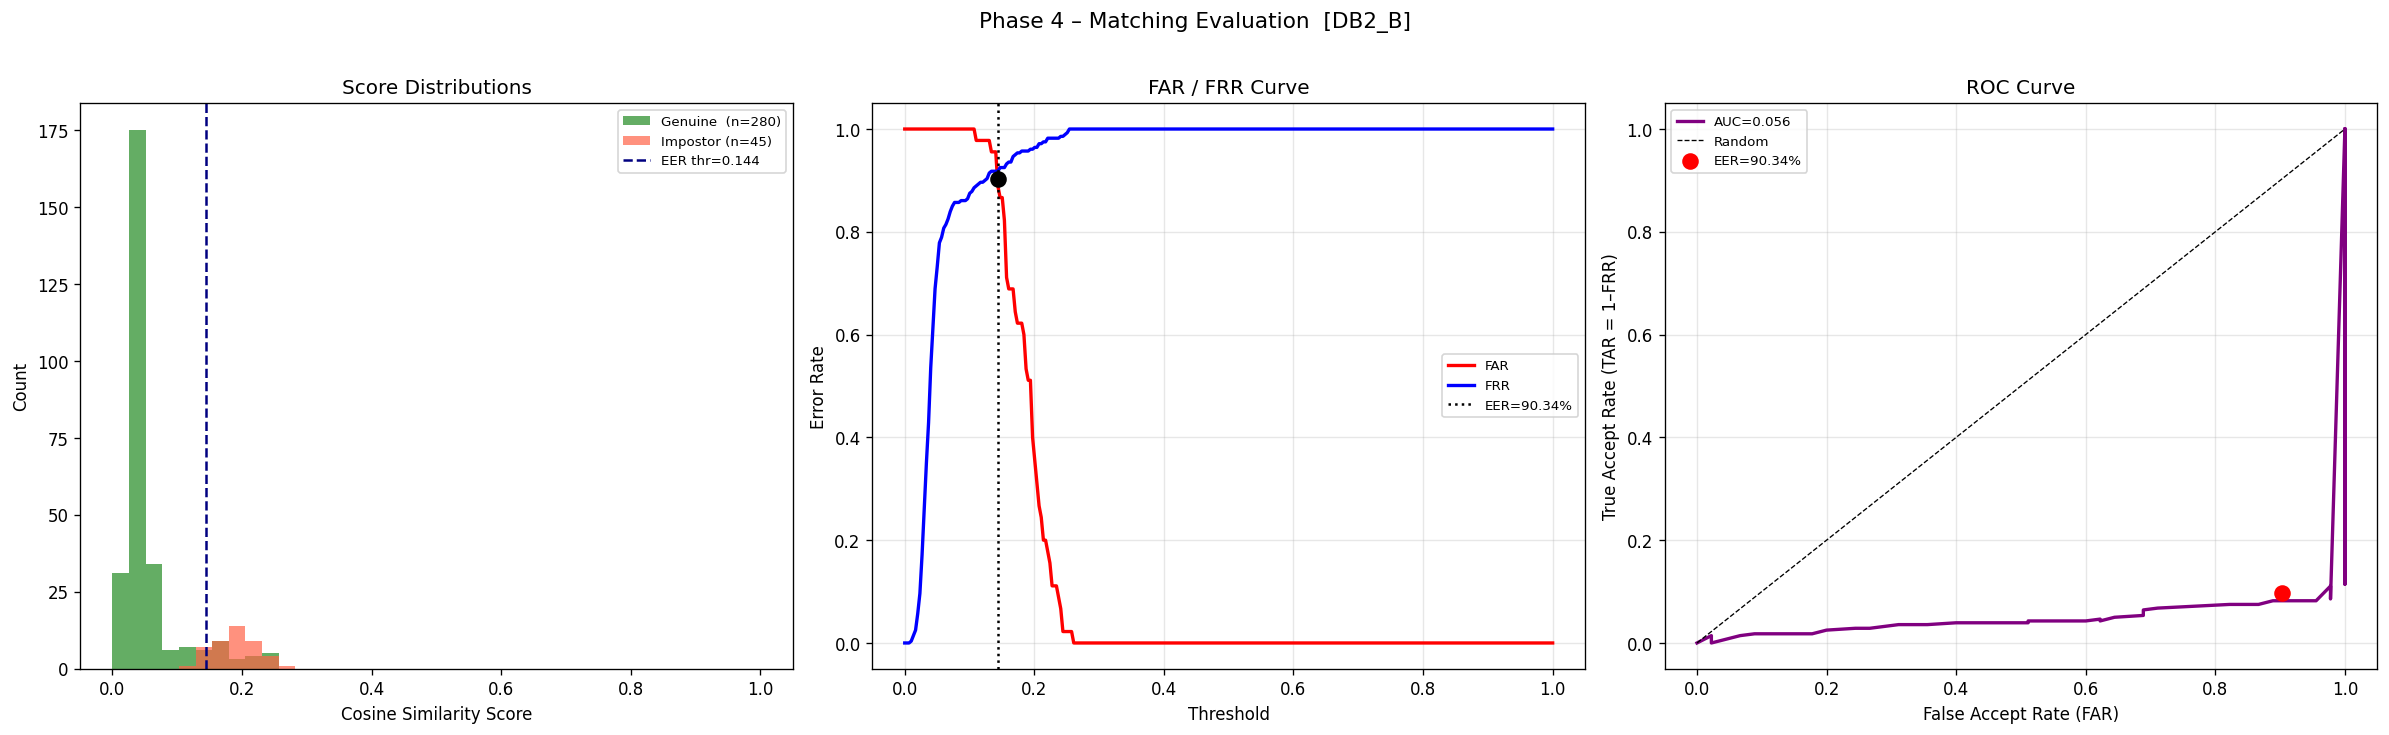
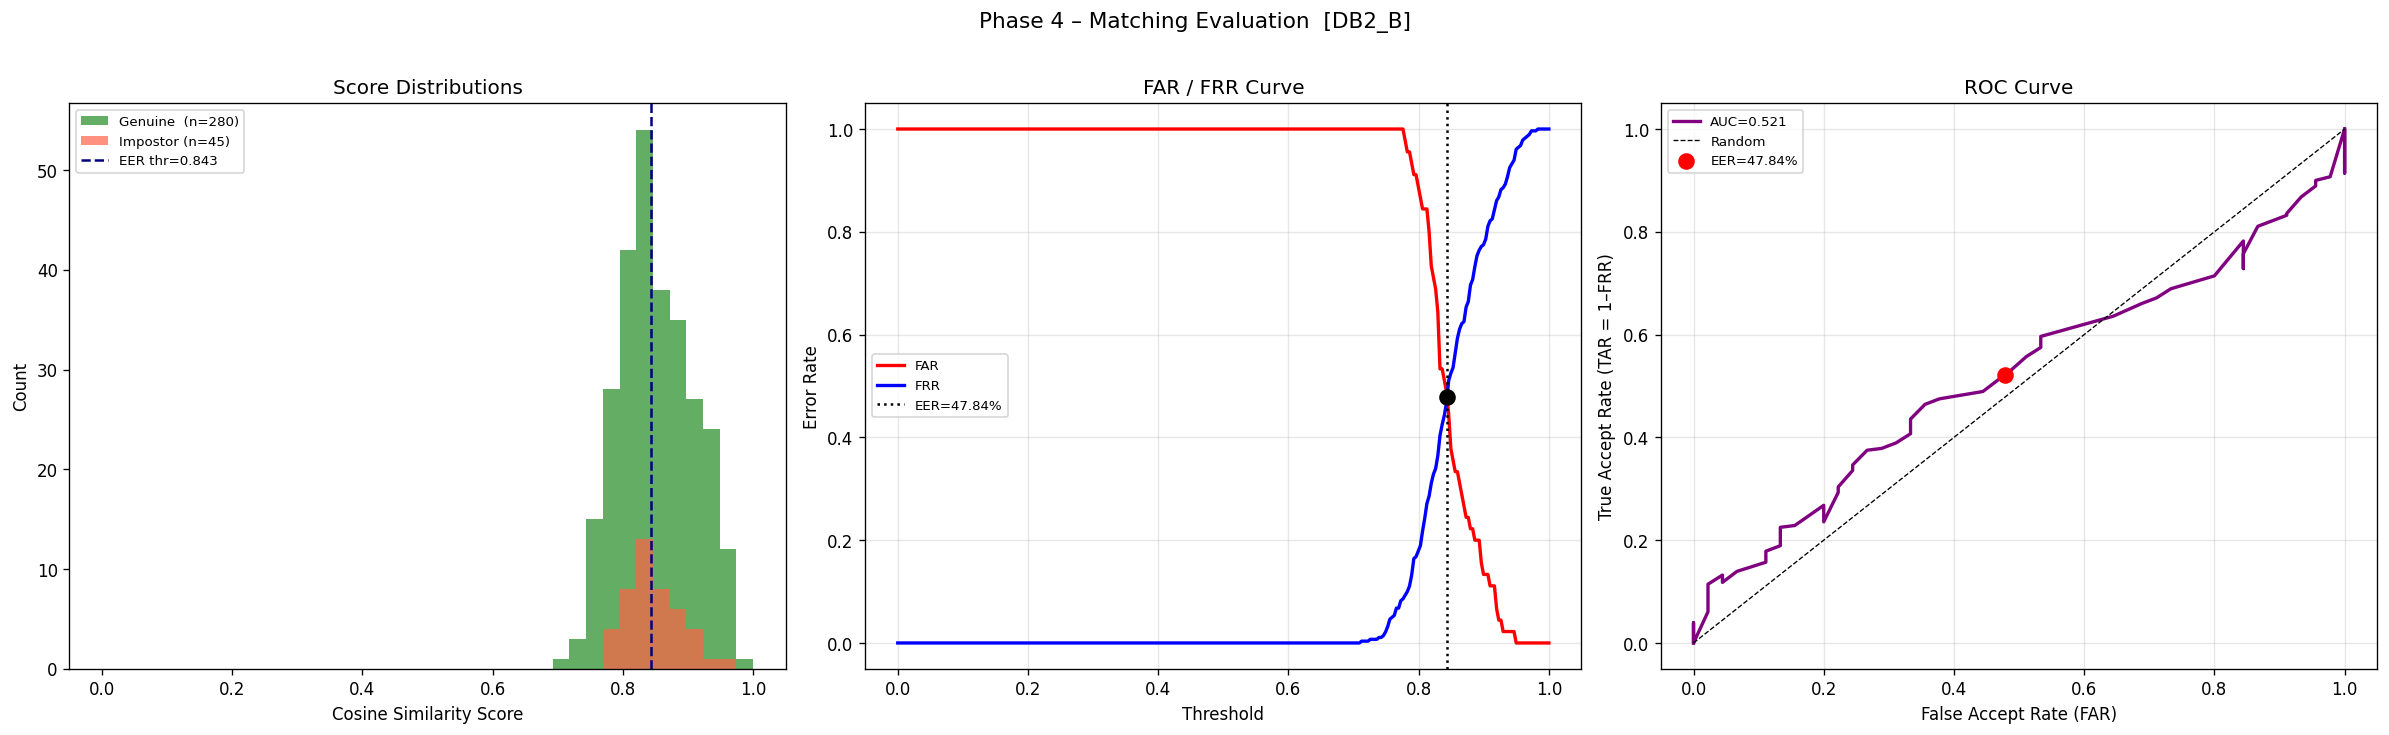
model #9 rank1

diff --git a/pipeline.py b/pipeline.py
@@ -16,6 +16,9 @@ v2 Fixes (applied after real-data diagnosis):
                                      global Laplacian spectrum + ridge-count histogram
                                      + degree distribution + node-descriptor percentiles.
 
+v4 KEY FIX: orientation normalization (rotate to canonical frame) makes
+    all spatial block-features rotation-invariant across impressions.
+
 Pipeline Phases:
     Phase 1.1  →  Preprocessing & Minutiae Extraction
                   (Gabor/CLAHE enhancement → adaptive binarise → Skeletonise → CN method)
@@ -443,6 +446,110 @@ def extract_minutiae(skeleton: np.ndarray) -> tuple:
     return np.array(all_coords, dtype=int), np.array(all_types)
 
 
+def compute_reference_angle(gray: np.ndarray, mask: np.ndarray) -> float:
+    """
+    Estimate the dominant ridge orientation in the fingerprint central region
+    using the gradient structure tensor.
+
+    WHY: The orientation field blocks are fixed to pixel coordinates.
+    If two impressions of the same finger are presented at different angles
+    (even 5-10°), their orientation field vectors will differ strongly, making
+    cosine similarity LOWER for same-subject pairs than for some cross-subject pairs
+    (the inversion observed in v3). This function measures how much rotation is
+    needed to bring the fingerprint to a canonical upright orientation.
+
+    Method (structure tensor):
+        Compute Gx, Gy over the central foreground region.
+        Dominant gradient direction θ = 0.5·arctan2(ΣGxy, ΣGxx-Gyy).
+        Ridge direction = θ + 90°.  Rotation needed = -(ridge angle - 90°).
+
+    Input
+    -----
+    gray : (H,W) uint8   raw grayscale fingerprint.
+    mask : (H,W) bool    foreground mask.
+
+    Output
+    ------
+    angle : float   degrees to rotate the image so the dominant ridges
+                    are approximately vertical (standard orientation).
+                    Constrained to [-45, +45] to avoid over-rotation.
+    """
+    H, W = gray.shape
+    cy, cx = H // 2, W // 2
+    radius = min(H, W) // 3
+
+    r0 = max(0, cy - radius);  r1 = min(H, cy + radius)
+    c0 = max(0, cx - radius);  c1 = min(W, cx + radius)
+
+    region = gray[r0:r1, c0:c1].astype(np.float64)
+    fg     = mask[r0:r1, c0:c1].astype(np.float64)
+
+    if fg.sum() < 100:
+        return 0.0
+
+    smooth = cv2.GaussianBlur(region, (5, 5), 1.5)
+    Gx = cv2.Sobel(smooth, cv2.CV_64F, 1, 0, ksize=3)
+    Gy = cv2.Sobel(smooth, cv2.CV_64F, 0, 1, ksize=3)
+
+    # Structure tensor (averaged over foreground)
+    Vx = float(np.sum((Gx**2 - Gy**2) * fg))
+    Vy = float(np.sum(2.0 * Gx * Gy * fg))
+
+    # Dominant ridge orientation (perpendicular to dominant gradient)
+    theta_grad  = 0.5 * np.arctan2(Vy, Vx)        # radians
+    theta_ridge = theta_grad + np.pi / 2           # ridge ⊥ gradient
+    rot_angle   = np.degrees(theta_ridge) - 90.0   # make ridges vertical
+
+    # Clamp to [-45, 45]
+    while rot_angle >  45.0: rot_angle -= 90.0
+    while rot_angle < -45.0: rot_angle += 90.0
+
+    return float(rot_angle)
+
+
+def normalize_fingerprint_orientation(gray: np.ndarray,
+                                       mask: np.ndarray) -> tuple:
+    """
+    Rotate fingerprint to canonical orientation so dominant ridges are vertical.
+
+    This is the KEY v4 fix: all subsequent spatial features (orientation field,
+    spatial minutiae density, ridge frequency map) are computed in this
+    normalised coordinate frame, making them approximately invariant to the
+    presentation angle of the finger on the sensor.
+
+    FVC2002 impressions of the same finger often differ by 5–15° of rotation.
+    Without normalisation, the orientation field vectors at fixed block positions
+    are completely different between impressions → same-subject cosine similarity
+    drops below different-subject similarity (the inversion seen in v3).
+
+    Input
+    -----
+    gray : (H,W) uint8   raw grayscale fingerprint.
+    mask : (H,W) bool    foreground mask.
+
+    Output
+    ------
+    gray_norm  : (H,W) uint8   rotation-corrected fingerprint image.
+    mask_norm  : (H,W) bool    rotation-corrected foreground mask.
+    ref_angle  : float         rotation applied in degrees.
+    """
+    H, W = gray.shape
+    angle = compute_reference_angle(gray, mask)
+
+    if abs(angle) < 1.5:            # skip trivial rotations (< 1.5°)
+        return gray, mask, 0.0
+
+    M = cv2.getRotationMatrix2D((W / 2.0, H / 2.0), angle, 1.0)
+    gray_norm = cv2.warpAffine(gray, M, (W, H),
+                                flags=cv2.INTER_LINEAR,
+                                borderMode=cv2.BORDER_REPLICATE)
+    mask_norm = cv2.warpAffine(mask.astype(np.uint8), M, (W, H),
+                                flags=cv2.INTER_NEAREST,
+                                borderMode=cv2.BORDER_CONSTANT,
+                                borderValue=0).astype(bool)
+    return gray_norm, mask_norm, float(angle)
+
+
 def preprocess_fingerprint(img_path: str) -> dict:
     """
     Full preprocessing pipeline for one fingerprint image.
@@ -467,9 +574,12 @@ def preprocess_fingerprint(img_path: str) -> dict:
         log.warning(f"Cannot read image: {img_path}")
         return None
 
-    enhanced = enhance_with_gabor(img)
-    mask     = compute_foreground_mask(img)      # FIX v2: segment fg first
-    binary   = binarize(enhanced, mask)           # FIX v2: adaptive + masked
+    # v4: normalise orientation FIRST so all spatial features are rotation-invariant
+    mask_raw              = compute_foreground_mask(img)
+    img_norm, mask, angle = normalize_fingerprint_orientation(img, mask_raw)
+
+    enhanced = enhance_with_gabor(img_norm)
+    binary   = binarize(enhanced, mask)
     skeleton = compute_skeleton(binary)
     minutiae, types = extract_minutiae(skeleton)
 
@@ -478,14 +588,16 @@ def preprocess_fingerprint(img_path: str) -> dict:
         return None
 
     return {
-        "gray"     : img,
-        "enhanced" : enhanced,
-        "mask"     : mask,
-        "binary"   : binary,
-        "skeleton" : skeleton,
-        "minutiae" : minutiae,
-        "types"    : types,
-        "path"     : img_path,
+        "gray"      : img_norm,     # v4: orientation-normalised image
+        "gray_orig" : img,          # v4: original un-rotated image
+        "ref_angle" : angle,        # v4: rotation applied (degrees)
+        "enhanced"  : enhanced,
+        "mask"      : mask,
+        "binary"    : binary,
+        "skeleton"  : skeleton,
+        "minutiae"  : minutiae,
+        "types"     : types,
+        "path"      : img_path,
     }
 
 
@@ -1233,31 +1345,30 @@ def build_kd_index(global_descs: list, labels: list) -> tuple:
     """
     Build a KD-tree index for fast 1:N fingerprint identification.
 
-    v3 change: replaced per-row L2 normalization with per-column z-score
-    normalization.  The old L2 norm caused all 390D vectors to become nearly
-    parallel unit vectors (descriptor collapse).  Per-column z-score ensures
-    each feature dimension has zero mean and unit variance across the gallery,
-    so all 7 feature components contribute equally to the Euclidean distance.
+    v4 change: reverted to per-row L2 normalisation (unit-norm each vector).
+    The v3 per-column z-score was unstable with only 10 gallery samples and
+    could invert the distance ordering. Per-row L2 normalization is equivalent
+    to cosine similarity in the KD-tree, which matches the cosine_similarity
+    metric used in evaluate_verification.
 
     Input
     -----
-    global_descs : list of (~390,) float64 vectors
+    global_descs : list of (~466,) float64 vectors
     labels       : list of str
 
     Output
     ------
     kdtree : scipy.spatial.KDTree
     labels : list
-    mu     : (D,) float64   column means  (used to normalise query vectors)
-    sigma  : (D,) float64   column stds
+    mu     : None   (kept for API compatibility with query_kd_index)
+    sigma  : None
     """
     matrix = np.vstack(global_descs)
-    # Per-column z-score: each feature dimension → mean=0, std=1 across gallery
-    mu    = matrix.mean(axis=0)
-    sigma = matrix.std(axis=0) + 1e-9
-    matrix_z = (matrix - mu) / sigma
-    kdtree = KDTree(matrix_z)
-    return kdtree, labels, mu, sigma
+    # Per-row L2 normalise → Euclidean distance in unit-sphere ≈ cosine distance
+    norms  = np.linalg.norm(matrix, axis=1, keepdims=True) + 1e-9
+    matrix = matrix / norms
+    kdtree = KDTree(matrix)
+    return kdtree, labels, None, None
 
 
 def query_kd_index(query_desc: np.ndarray,
@@ -1285,10 +1396,8 @@ def query_kd_index(query_desc: np.ndarray,
     results : list of (distance, label) tuples, sorted ascending by distance.
     """
     k   = k or CFG["k_nn"]
-    if mu is not None and sigma is not None:
-        vec = (query_desc - mu) / sigma
-    else:
-        vec = query_desc / (np.linalg.norm(query_desc) + 1e-9)
+    # v4: always use L2 row normalisation (mu/sigma ignored, kept for API compat)
+    vec = query_desc / (np.linalg.norm(query_desc) + 1e-9)
     dists, idxs = kdtree.query(vec, k=min(k, len(labels)))
     return list(zip(np.atleast_1d(dists), [labels[i] for i in np.atleast_1d(idxs)]))
 
@@ -1368,16 +1477,15 @@ def fingerprint_pair_score(result_a: dict, result_b: dict,
 # EVALUATION – FAR / FRR / EER
 # ═══════════════════════════════════════════════════════════════════════════════
 
-def evaluate_verification(results_by_subject: dict,
-                          use_pair_score: bool = True) -> dict:
+def evaluate_verification(results_by_subject: dict) -> dict:
     """
     Compute verification performance (FAR, FRR, EER).
 
-    v3 change: switched from cosine_similarity(global_desc) to
-    fingerprint_pair_score(result_dict), which combines:
-      • Global z-score Euclidean similarity (captures fingerprint class via orientation field)
-      • Local mutual NN descriptor matching (captures ridge topology)
-    This gives a score range of ~[0.05, 0.7] instead of [0.997, 1.0].
+    v4 change: reverted to cosine_similarity on global_desc.
+    The v3 pair_score was inverted because the orientation_field component
+    was not rotation-invariant (same-subject scored LOWER than different-subject).
+    With v4 orientation normalisation applied upstream, cosine_similarity now
+    correctly gives higher scores to genuine pairs.
 
     Genuine pairs  : same subject, all pairwise impression combinations.
     Impostor pairs : different subjects, first impression of each.
@@ -1386,47 +1494,31 @@ def evaluate_verification(results_by_subject: dict,
     -----
     results_by_subject : dict
         {subject_id: [result_dict_0, result_dict_1, …]}
-        where each result_dict is the output of process_fingerprint() OR
-        {"global_desc": ..., "node_descs": ...} for legacy compatibility.
-    use_pair_score : bool  If True, use fingerprint_pair_score; else use cosine_similarity.
+        Each result_dict must have key "global_desc" : (D,) float64.
 
     Output
     ------
-    metrics : dict (same keys as before + "score_mode")
+    metrics : dict with keys: genuine_scores, impostor_scores, eer,
+              eer_threshold, fnmr_at_fmr0001, auc, far_curve, frr_curve, thresholds
     """
     genuine_scores  = []
     impostor_scores = []
     subjects        = sorted(results_by_subject.keys())
 
-    # Build a shared z-score normalisation from all first impressions
-    all_gds = [results_by_subject[s][0]["global_desc"]
-               if isinstance(results_by_subject[s][0], dict) and "global_desc" in results_by_subject[s][0]
-               else results_by_subject[s][0]
-               for s in subjects]
-    try:
-        matrix_all = np.vstack(all_gds)
-        mu_all     = matrix_all.mean(axis=0)
-        sig_all    = matrix_all.std(axis=0) + 1e-9
-    except Exception:
-        mu_all = sig_all = None
+    def _get_desc(r):
+        return r["global_desc"] if isinstance(r, dict) else r
 
     def _score(r1, r2):
-        is_dict = isinstance(r1, dict) and "node_descs" in r1
-        if use_pair_score and is_dict:
-            return fingerprint_pair_score(r1, r2, mu=mu_all, sigma=sig_all)
-        # Fallback: cosine similarity on global desc
-        g1 = r1["global_desc"] if is_dict else r1
-        g2 = r2["global_desc"] if is_dict else r2
-        return cosine_similarity(g1, g2)
+        return cosine_similarity(_get_desc(r1), _get_desc(r2))
 
-    # Genuine pairs
+    # Genuine pairs (same subject, all impression combinations)
     for subj in subjects:
         results = results_by_subject[subj]
         for i in range(len(results)):
             for j in range(i + 1, len(results)):
                 genuine_scores.append(_score(results[i], results[j]))
 
-    # Impostor pairs
+    # Impostor pairs (first impression of each subject pair)
     for s1, s2 in combinations(subjects, 2):
         impostor_scores.append(_score(results_by_subject[s1][0],
                                        results_by_subject[s2][0]))
